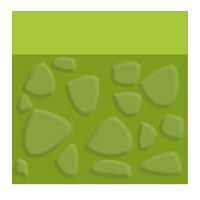
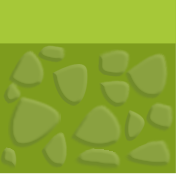
added start page

diff --git a/js/scene/Start.js b/js/scene/Start.js
@@ -6,8 +6,14 @@ class Start extends Phaser.Scene {
 
   preload(){
     this.load.audio('startAudio', ['assets/audio/startAudio.mp3']);
-    this.load.image('bg', 'assets/back01.jpeg');
-    this.load.image('start', 'assets/startGame.gif');
+    this.load.image('bg', 'assets/background2.png');
+    this.load.image('start', 'assets/start-start.png');
+    this.load.image('cloud1', 'assets/Export/cloud1.png');
+    this.load.image('cloud2', 'assets/Export/cloud2.png');
+    this.load.image('cloud3', 'assets/Export/cloud3.png');
+    this.load.image('arrow', 'assets/arrow-right.png');
+    this.load.image('leftarrow', 'assets/left-arrow.png');
+    // this.load.image('arrowup', 'assets/arrow-up.png');
   }
 
   create(){
@@ -18,6 +24,9 @@ class Start extends Phaser.Scene {
 
[1 lines of base64/hex data omitted]
     bg = this.add.tileSprite(window.innerWidth/2,window.innerHeight/2, window.innerWidth/2,window.innerHeight/2, 'bg').setScale(2);
+    cloud1= this.add.sprite(75,80, 'cloud1');
+    cloud1= this.add.sprite(1400,100, 'cloud3');
+
 
     ///=========================Auto resize=======================///
 
@@ -37,12 +46,15 @@ class Start extends Phaser.Scene {
     };
 
     ///=========================Rules =======================///
-    rule = this.add.text(window.innerWidth/2*0.79, 440, 'Rules of The Game' ,  { font: '35px Arial', boundsAlignH: "center", fill: '#000'});
-    ruleDescription = this.add.text(325, 500, 'Use the right arrow to begin running and the spacebar or up key to jump.' ,  { font: '25px Arial', boundsAlignH: "center", fill: '#000'});
+    ruleDescription = this.add.text(window.innerWidth/2 - 380, 440, 'Use the right arrow to begin running and the spacebar or up key to jump.' ,  { font: '25px Arial', boundsAlignH: "center", fill: '#000'});
+
+    arrowRight= this.add.sprite(window.innerWidth/2+ 330,window.innerHeight/2,  'arrow').setScale(0.26);
+    arrowLeft= this.add.sprite(window.innerWidth/2-330,window.innerHeight/2,  'leftarrow').setScale(0.25);
+
 
 
     ///=========================Button=======================///
-    this.startButton = this.add.image(window.innerWidth/2,window.innerHeight/2,'start').setScale(1);
+    this.startButton = this.add.image(window.innerWidth/2,window.innerHeight/2,'start').setScale(1.25);
     this.startButton.setInteractive();
     this.input.on('gameobjectdown', this.onObjectClicked)
     }
@@ -51,7 +63,6 @@ class Start extends Phaser.Scene {
     if(soundFX.isPlaying) soundFX.pause();
     else soundFX.resume();
     }
-
   update(){
 
   }

diff --git a/js/scene/PlayGame.js b/js/scene/PlayGame.js
@@ -9,13 +9,13 @@ preload () {
     this.load.image('background', 'assets/background.png');
     this.load.image('cloud1', 'assets/Export/cloud1.png');
     this.load.image('ground', 'assets/platform.png');
-    this.load.image('tile1', 'assets/Export/tile_2.png');
-    // this.load.image('test', 'assets/Export/cloud2.png');
+    this.load.image('tiles', 'assets/Export/tile_2.png');
     this.load.spritesheet('dude','assets/dude.png',
       { frameWidth: 32, frameHeight: 48 });
   }
 
 create () {
+
 
   ///=========================AUDIO=======================///
   // soundFX = this.sound.add("gameAudio", { loop: "true"});
@@ -29,7 +29,7 @@ create () {
 
 
     ///=========================Player=======================///
-      player = this.physics.add.sprite(100, 450, 'dude');
+      player = this.physics.add.sprite(180, 450, 'dude');
       player.setBounce(0.2);
       player.setCollideWorldBounds(true);
       player.flipX = true;
@@ -58,11 +58,12 @@ create () {
      // platforms.setCollideWorldBounds(true);
 
      ///=========================Tiles=======================///
-     tiles = this.physics.add.sprite(300, 450, 'tile1');
+     tiles = this.physics.add.sprite(350, 460, 'tiles');
      tiles.setBounce(0.2);
      tiles.setCollideWorldBounds(true);
      tiles.body.setGravityY(500);
      tiles.setScale(0.4);
+     console.log(tiles);
 
      // tiles = this.physics.add.staticGroup();
      // tiles.create(window.innerWidth/4, window.innerHeight, 'tile1').setScale(1).refreshBody();
@@ -88,19 +89,34 @@ create () {
    }
 
 update ( time, delta) {
-if(player.anims.play ===true){
-  this.score += 10;
-  this.scoreText = ('score: ' + this.score);
-}
+
+  function UpdateCollisions() {
+
+      SolveAABBOverlap();
+      SolvePolygonOverlap();
+      SolveStaticAABBCollision();
+      SolveStaticPolygonCollision();
+      SolveDynamicAABBCollision();
+      SolveDynamicPolygonCollision();
+
+  }
+  score += 0.04;
+  scoreText.setText( 'score: '+ Math.floor(score));
+
 
   this.physics.add.collider(player, platforms);
   this.physics.add.collider(platforms, tiles);
-  this.physics.add.collider(player,tiles);
+  this.physics.add.collider(player, tiles);
+
 
   // platforms.tilePositionX = (iter) * -300;
 
   bg.tilePositionX = (iter) * -200;
   cloud1.tilePositionX = (iter) * -350;
+
+  tiles.tilePositionX =(iter) * -200;
+
+
   iter -=0.01;
     if (cursors.right.isDown) {
         player.anims.play('right', true);

diff --git a/js/game.js b/js/game.js
@@ -26,5 +26,8 @@ let config = {
   let scoreText;
   let timer = 0;
   let iter = 0;
+  let arrowRight;
+  let arrowLeft;
+  // let arrowUp;
 
 let game = new Phaser.Game(config);
